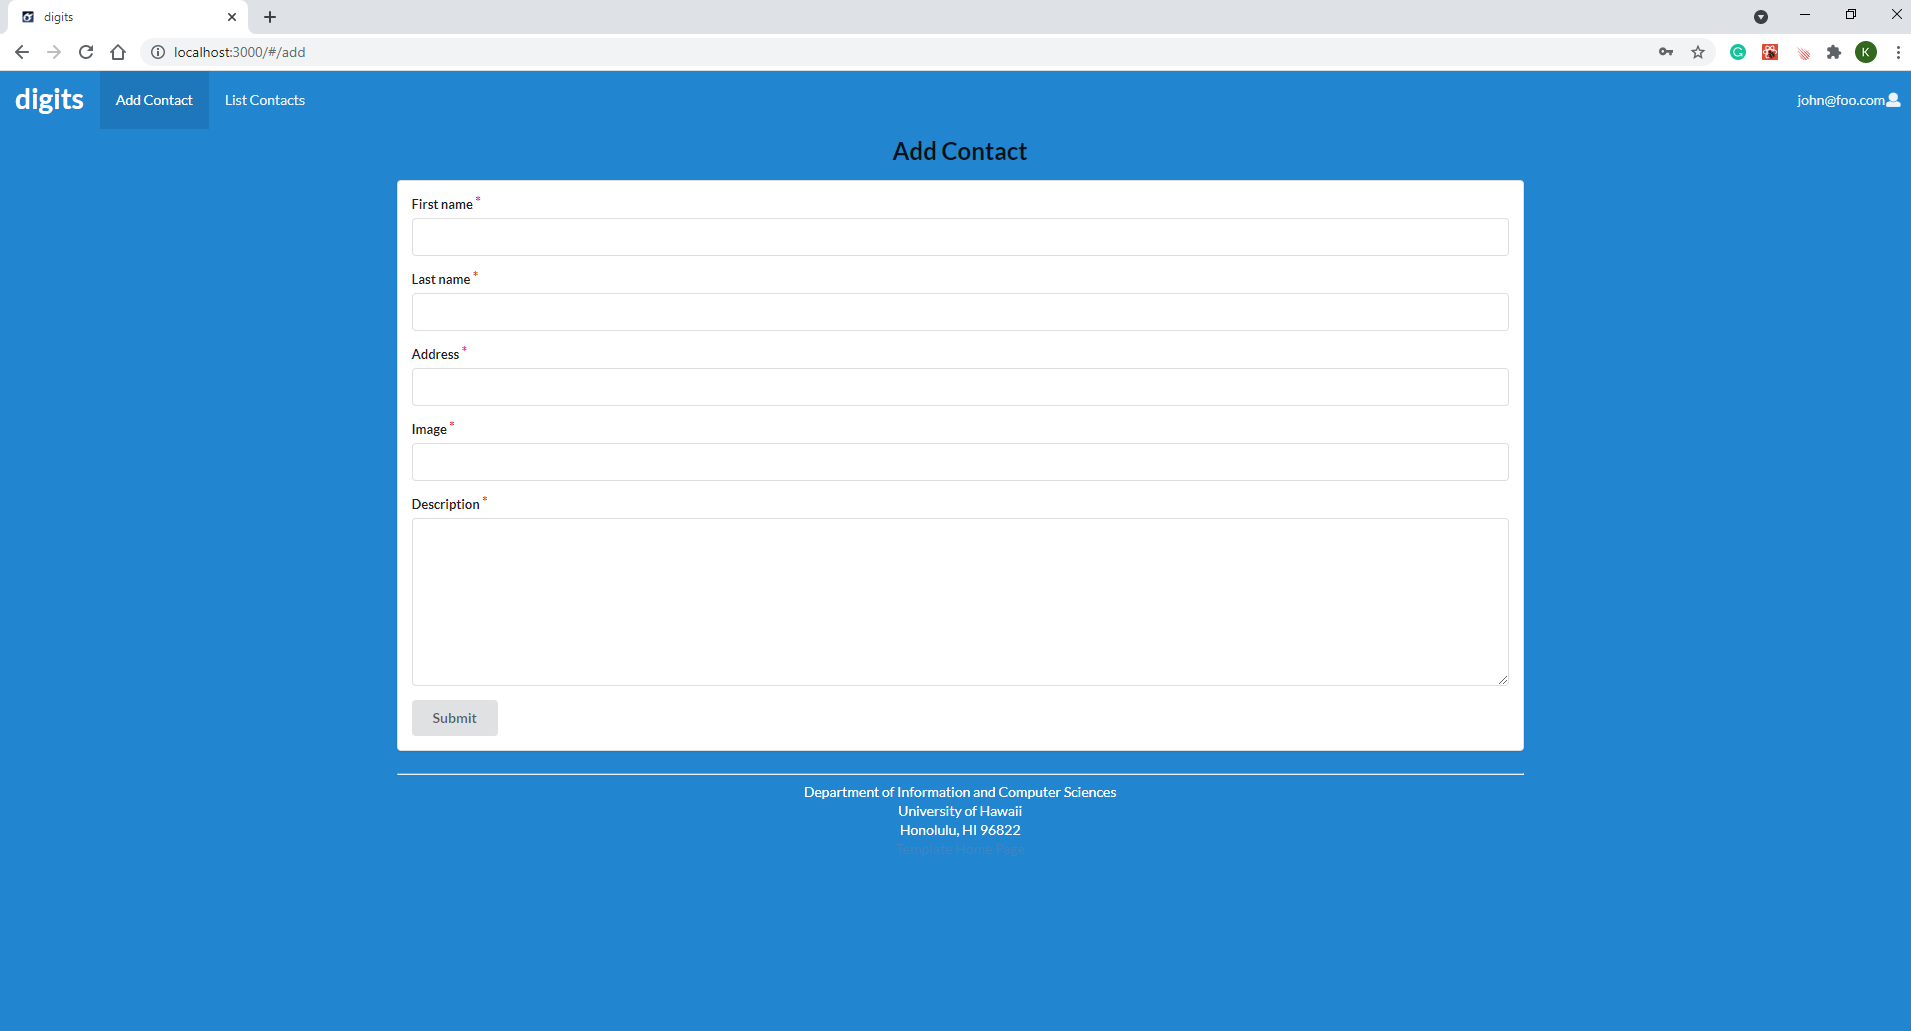
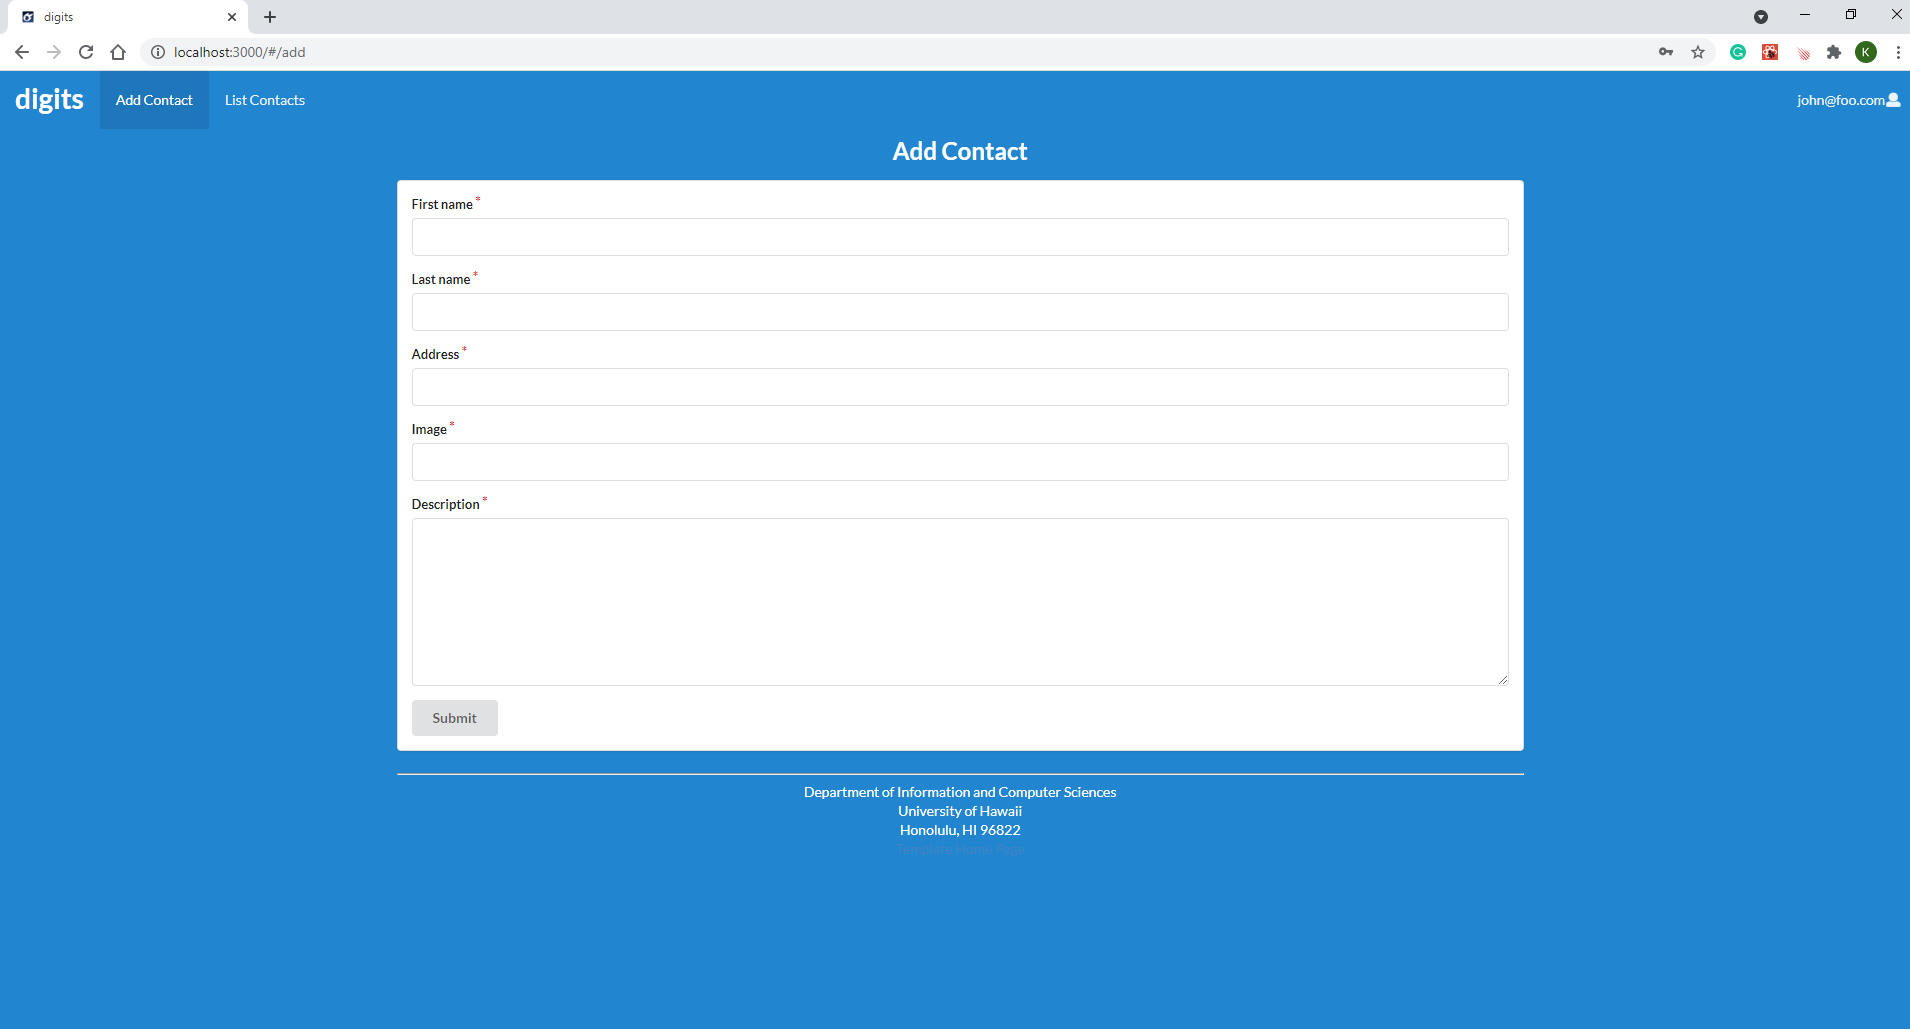
Fixed add contact inverted title

diff --git a/app/imports/ui/pages/AddContact.jsx b/app/imports/ui/pages/AddContact.jsx
@@ -42,7 +42,7 @@ class AddContact extends React.Component {
     return (
       <Grid container centered>
         <Grid.Column>
-          <Header as="h2" textAlign="center">Add Contact</Header>
+          <Header as="h2" textAlign="center" inverted>Add Contact</Header>
           <AutoForm ref={ref => { fRef = ref; }} schema={bridge} onSubmit={data => this.submit(data, fRef)} >
             <Segment>
               <TextField name='firstName'/>
